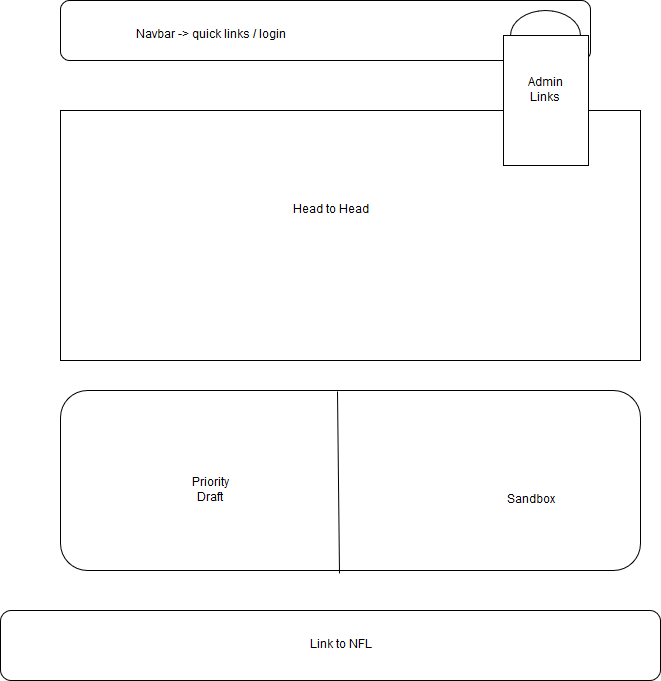
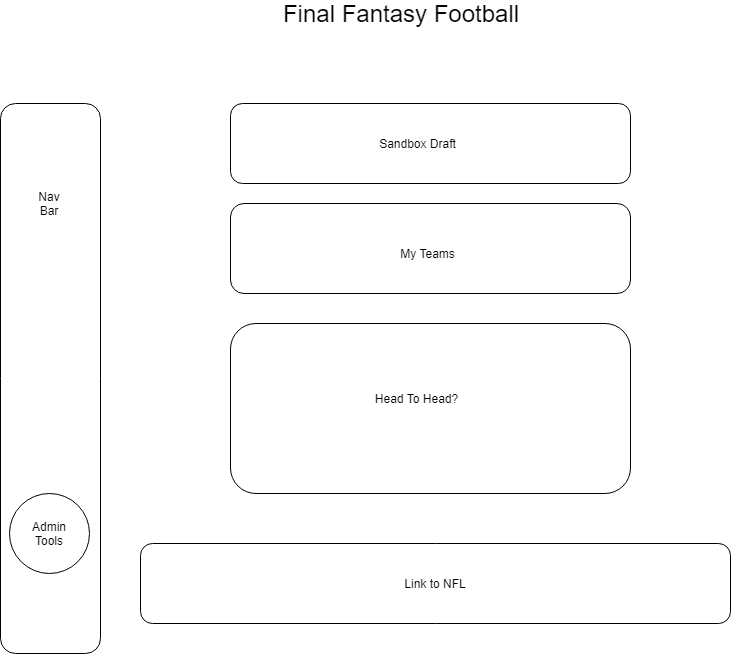
updated some screens

diff --git a/screendesign.md b/screendesign.md
@@ -7,6 +7,8 @@
 ### Sandbox Draft
 ![Screen Design](images/Screens/SandboxTeamForm.png)</br>
 
+## View my Teams
+![Screen Design](images/Screens/MyTeams.png)</br>
 
 ### Head To Head
 ![Screen Design](images/Screens/HeadToHead.png)</br>
